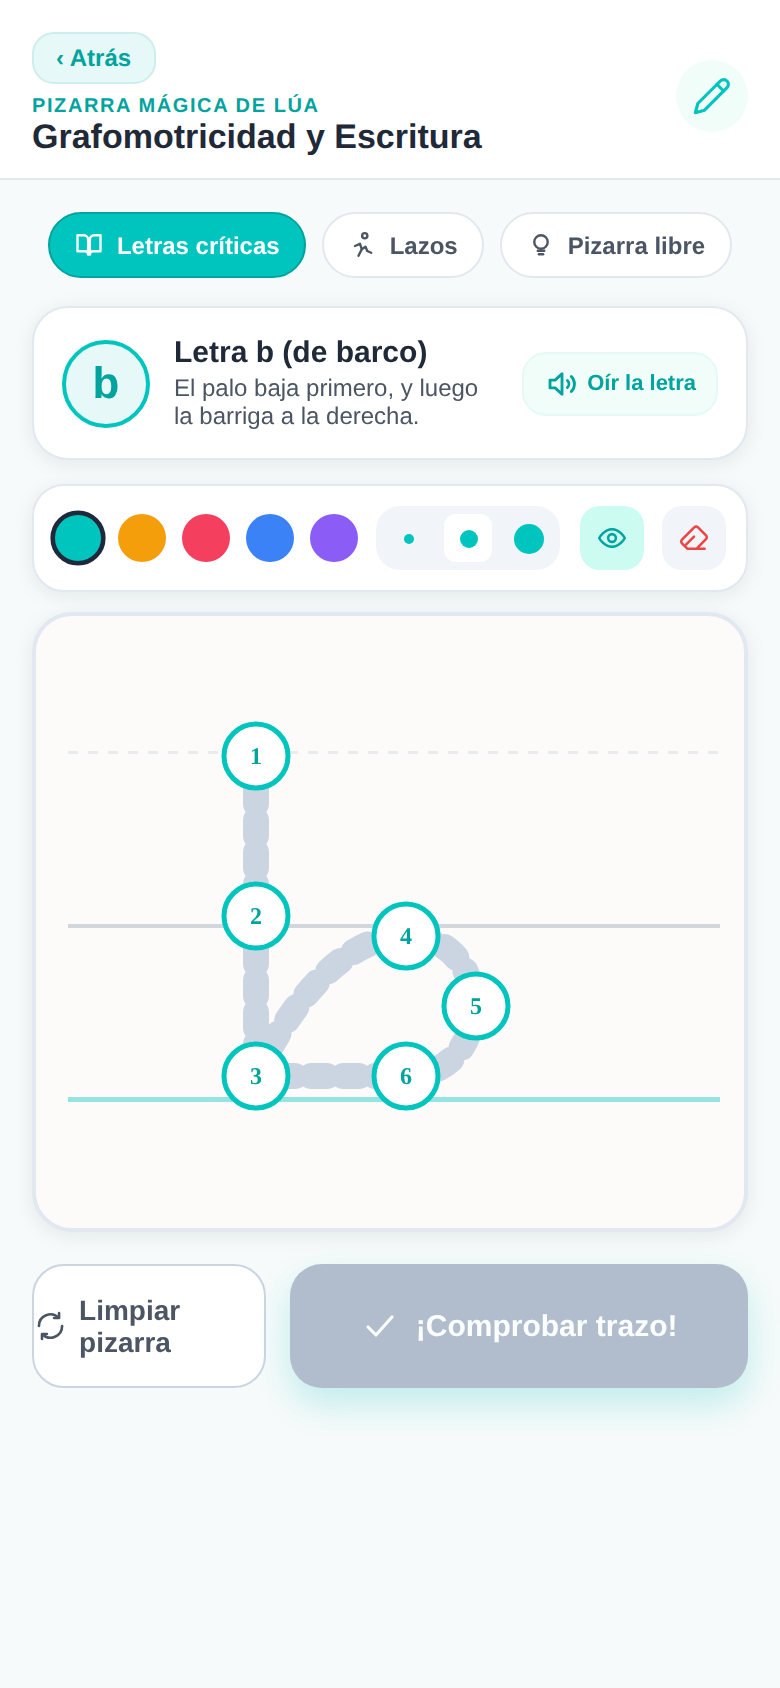
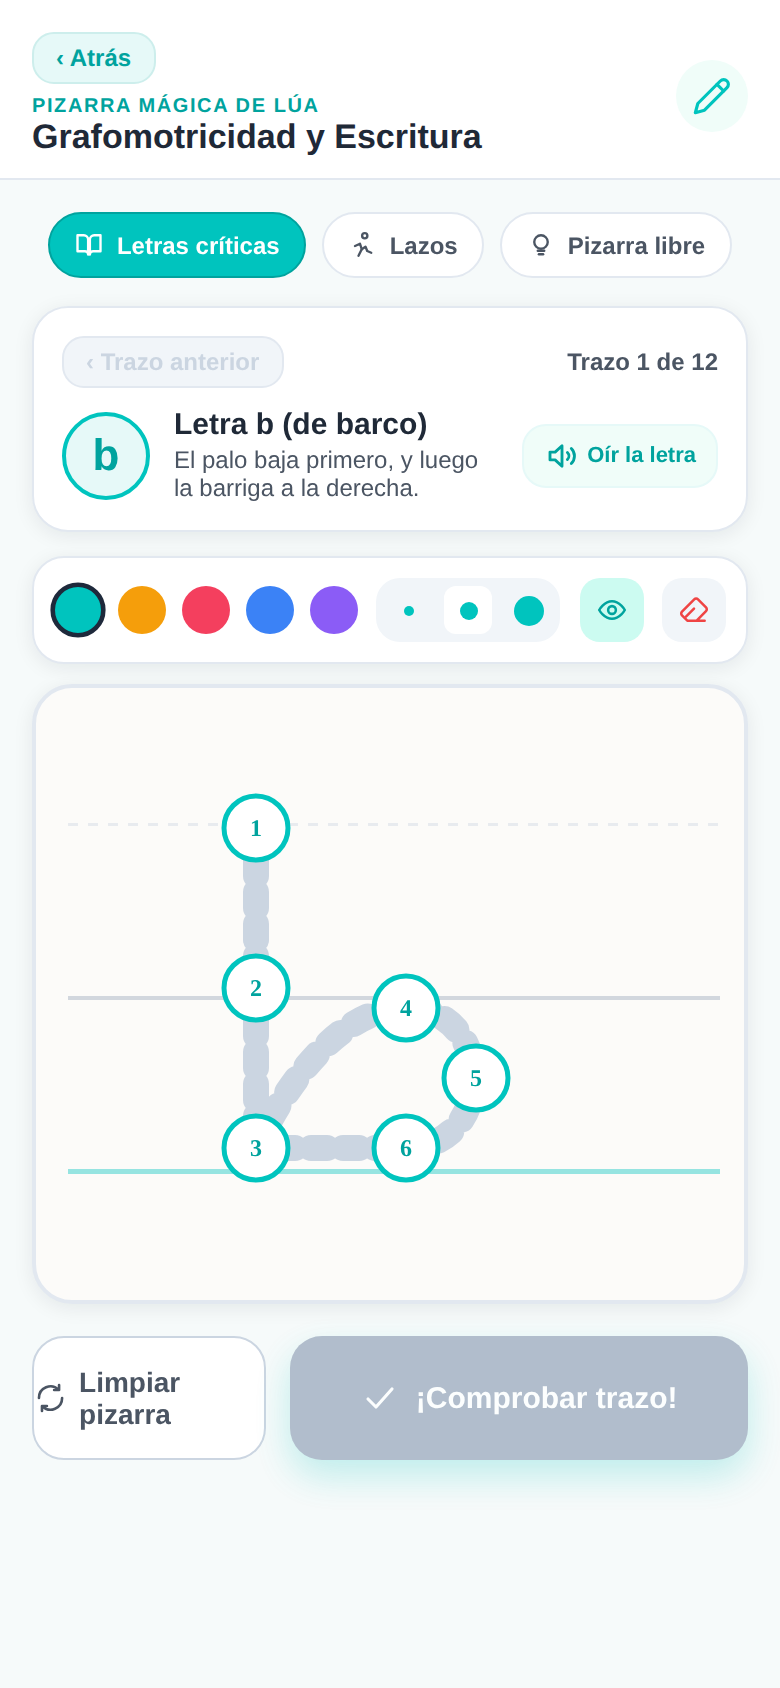
README: la Pizarra ya no enseña una captura de una pantalla que no existe, y la tabla de gates deja de mentir
Frank pidió actualizar el README. Repasado entero, no solo lo que yo había
tocado; lo que estaba desfasado:

· La captura enlazada de la Pizarra Mágica era la pantalla ANTERIOR: 6 trazos,
  sin contador y sin vuelta atrás. Regenerada con docs/capture-pizarra.js, y
  añadida una segunda con un lazo (40b-pizarra-lazo.png), que es donde está la
  otra mitad de la novedad.

· «Antes de compilar corren 25 chequeos»: son 30. Y la tabla listaba 25 filas,
  con CINCO gates que corren en CI y no estaban escritos —verify-aventuras-lua,
  check-no-background-audio, check-ar-bridge-contract y los dos nuevos—. Es
  exactamente la deriva que costó el build 621, cuando la lista decía 15 y el
  workflow corría 25. Añadidas las cinco filas y, sobre todo, el comando que
  SACA los gates del propio workflow: la cuenta que manda es la suya, no la de
  una tabla escrita a mano.

· Corpus de voz: decía 4110 locuciones con un reparto por lengua que ya no era
  el de nadie. Son 4711 (1444 es · 829 gl · 814 en · 868 ca · 756 eu). Y se
  quita el «todas con asset»: eso no es una cifra que un README pueda sostener
  —lo comprueba el gate en cada build, y esa es la única fuente fiable—.

· La suite catalana: 212 → 223 funciones de interpolación.

· Capturas: eran 45, son 54. Y se documenta docs/capture-pizarra.js, que existe
  porque el recorrido general no pasa por la pizarra y por eso se le colaron
  cosas que ningún gate ve.
[…]

diff --git a/README.md b/README.md
@@ -116,8 +116,17 @@ cualquier dispositivo y **sin conexión**.
 Todas salen de la app corriendo, no de un diseño: las genera
 [`docs/capture-screenshots.js`](docs/capture-screenshots.js) recorriendo Expo web
 con Playwright, y por eso envejecen con el código en lugar de quedarse atrás.
-Están las 45 en [`docs/screenshots/`](docs/screenshots/) y el manual las usa
+Están las 54 en [`docs/screenshots/`](docs/screenshots/) y el manual las usa
 todas.
+
+La Pizarra Mágica tiene el suyo aparte,
+[`docs/capture-pizarra.js`](docs/capture-pizarra.js), porque el recorrido general
+no pasa por ella —y por eso se le habían colado cosas que ningún gate ve: una
+insignia de letra que se desbordaba y se comía el título, y unos puntos de
+control 30 px por encima de su curva—. Captura los 18 trazos uno a uno
+**trazándolos por sus propios waypoints**, así que sale con error si alguno deja
+de poder aprobarse siguiendo su propia guía: es captura y prueba funcional a la
+vez.
 
 <table>
 <tr>
@@ -146,6 +155,8 @@ todas.
 >   react-native-web@~0.21.0 react-dom@19.1.0 @expo/metro-runtime@~6.1.1 playwright
 > BROWSER=none npx expo start --web --port 8081 --clear
 > node docs/capture-screenshots.js
+> CHROMIUM_PATH=/opt/pw-browsers/chromium-1194/chrome-linux/chrome \
+>   OUT_DIR=docs/screenshots node docs/capture-pizarra.js   # los 18 trazos
 > ```
 
 ---
@@ -168,7 +179,7 @@ tarjeta que puede no aparecer, porque depende del aparato.
 | 💬 **Lenguaje** (7 ejercicios) | Protocolo familiar: atención conjunta, imitación, comprensión, expresión, comunicación funcional, regulación e interacción social. |
 | 🧠 **TEA** (6 ejercicios) | PRT + TCC: atención conjunta triangulada (Time Delay + Sello Doble), quiebre pragmático con consentimiento, espejo asimétrico, transición interrumpida, categorización bajo ruido y múltiples señales simultáneas. Todos los estresores son **manuales** (Panel del Adulto). |
 | 📖 **Dislexia** (6 ejercicios) | Fonología y acceso léxico: intruso fonológico auditivo puro, rastreo léxico con interferencia, síntesis fonémica rítmica (latencia 500 ms + Juez), criba de pseudopalabras (máx. 5 ensayos), rastreo visual de rotaciones b/d · p/q con mapa de misclicks y denominación rápida (RAN). |
-| ✏ **Grafomotricidad y Escritura** (18 trazos) · [captura](docs/screenshots/40-pizarra-magica.png) | La **Pizarra Mágica de Lúa**: continuación motora de Dislexia. Trazado guiado sobre lienzo SVG con dedo o lápiz óptico, pauta Montessori regulable y **puntos de control numerados** que fijan el ORDEN del trazo, que es lo que evita la inversión b/d y p/q: en la `b` el palo baja primero y la barriga abre a la derecha; en la `d` el óvalo va antes. Doce letras críticas en seis contrastes cerrados —b↔d, p↔q, m↔n, n↔u, a↔e, s↔z, más la g contra la q: cada letra confundible tiene a su par en el mismo banco—, seis lazos de calentamiento (olas, bucles, picos, puentes, caracol y ocho tumbado, uno por destreza motora) y pizarra libre. La geometría la verifica `scripts/check-writing-bank.js`: que cada punto numerado caiga sobre el trazo y en el sentido en que se escribe es justamente lo que el typecheck no puede ver. El contenido de pantalla está **solo en castellano** de momento; lo que la pizarra PRONUNCIA sí está en las cinco variedades: los tres elogios (`escritura/elogio`) y el nombre de cada una de las 12 letras (`escritura/letra`), que hasta ahora caía a la voz del sistema. |
+| ✏ **Grafomotricidad y Escritura** (18 trazos) · [letra](docs/screenshots/40-pizarra-magica.png) · [lazo](docs/screenshots/40b-pizarra-lazo.png) | La **Pizarra Mágica de Lúa**: continuación motora de Dislexia. Trazado guiado sobre lienzo SVG con dedo o lápiz óptico, pauta Montessori regulable y **puntos de control numerados** que fijan el ORDEN del trazo, que es lo que evita la inversión b/d y p/q: en la `b` el palo baja primero y la barriga abre a la derecha; en la `d` el óvalo va antes. Doce letras críticas en seis contrastes cerrados —b↔d, p↔q, m↔n, n↔u, a↔e, s↔z, más la g contra la q: cada letra confundible tiene a su par en el mismo banco—, seis lazos de calentamiento (olas, bucles, picos, puentes, caracol y ocho tumbado, uno por destreza motora) y pizarra libre. La geometría la verifica `scripts/check-writing-bank.js`: que cada punto numerado caiga sobre el trazo y en el sentido en que se escribe es justamente lo que el typecheck no puede ver. El contenido de pantalla está **solo en castellano** de momento; lo que la pizarra PRONUNCIA sí está en las cinco variedades: los tres elogios (`escritura/elogio`) y el nombre de cada una de las 12 letras (`escritura/letra`), que hasta ahora caía a la voz del sistema. |
 | 🎯 **Realidad Aumentada** (6 ejercicios · solo Android) | **Gamificación Condicionada**: la cámara frontal deja de grabar y pasa a ser un sensor de conducta motora, y el refuerzo 3D se dispara **solo** por el gesto objetivo, nunca por acierto acústico ni por paso del tiempo. Cinemática orofacial con el **micrófono apagado** (AR‑1), localización del sonido instrumentada —la versión con cronómetro de RA‑5— (AR‑2), selección semántica por fijación de la mirada sin motricidad fina (AR‑3), búsqueda espacial de Lúa (AR‑4), lanzamiento y captura (AR‑5) y espejo mímico (AR‑6). Sobre **ARCore**, con MediaPipe aportando los blendshapes que ARCore no da. Ningún fotograma se graba ni sale del teléfono. La tarjeta solo aparece si el teléfono supera la **Prueba de Aptitud del Dispositivo**. |
 
 El **Test de Ling** (6 sonidos) precede a los ejercicios de audición cuando el
@@ -758,9 +769,11 @@ piezas que no existían:
 
 - **Voz neuronal offline.** El audio de las **cinco variedades con banco
   pregenerado** se sintetiza en CI (nunca en el dispositivo) y viaja empaquetado
-  en el APK. El corpus enumerado son **4110 locuciones** —881 `es` · 819 `gl` ·
-  805 `en` · 858 `ca` · 747 `eu`—, **todas con asset**, y cada id se resuelve
-  contra `src/valeriaVoiceAssets.ts` (mapa generado). Una variedad **solo
+  en el APK. El corpus enumerado son **4711 locuciones** —1444 `es` · 829 `gl` ·
+  814 `en` · 868 `ca` · 756 `eu`—, y cada id se resuelve
+  contra `src/valeriaVoiceAssets.ts` (mapa generado). Que estén **todas
+  sintetizadas** no se afirma aquí: lo comprueba el gate en cada build, y esa es
+  la única fuente fiable — una cifra escrita en un README envejece sola. Una variedad **solo
   reproduce assets de su propia voz**: si falta uno, cae con elegancia a
   `expo-speech`, nunca a la voz de otra lengua (mezclar Celtia y Sharvard en el
   mismo ejercicio se oía como un salto de locutor). `es-DO` queda fuera a
@@ -1214,9 +1227,17 @@ compila la app en cada push/fusión a `main` (y en ramas `claude/**`). Con los
 secrets de firma configurados genera el APK y el **AAB firmados**; sin secrets
 solo compila el APK. El `versionCode` se deriva del número de run.
 
-Antes de compilar corren **25 chequeos** que fallan rápido. No son tests
+Antes de compilar corren **30 chequeos** que fallan rápido. No son tests
 unitarios: cada uno protege un acuerdo clínico concreto —o, en el caso del ASR,
 un dato de salud de un menor— que el typecheck y el diff no ven.
+
+> La cuenta que manda es la del workflow, no la de esta tabla. Cuando llegaron a
+> ser 25, aquí seguían escritos 15, y el build 621 murió en uno de los diez que
+> faltaban. Para no fiarse de la lista:
+> ```bash
+> grep -oP '(?<=run: )node scripts/\S+(?: --\S+)?' .github/workflows/android.yml |
+>   while read -r cmd; do $cmd >/dev/null 2>&1 || echo "FALLA: $cmd"; done
+> ```
 
 | Chequeo | Qué impide |
 | --- | --- |
@@ -1231,11 +1252,16 @@ un dato de salud de un menor— que el typecheck y el diff no ven.
 | `check-word-coverage.js` | Que la lámina encendida y la palabra puntuada vuelvan a contarse con reglas distintas. La regla llegó a estar escrita dos veces y no eran iguales: una frase podía encender las cinco láminas y recibir un «casi». Comprueba además que el recuento **sobrevive al viaje por disco** hasta la exportación |
 | `check-ui-strings.js` | Que una pantalla pinte texto literal en vez de leerlo del catálogo (EN‑2.8). Ya pasó dos veces con ficheros enteros dentro de pantallas migradas: compilan, el typecheck pasa y la app sale mitad en inglés y mitad en castellano |
 | `check-ui-lang-fallback.js` | Que un idioma de interfaz caiga a otra lengua **en silencio**. Hermano del anterior para lo que no es literal de pantalla: los catálogos de ejercicios y de Academy se elegían con `lang === 'en' ? EN : ES`, así que al entrar el catalán el adulto leía castellano bajo una cabecera catalana — sin romper el typecheck, porque el ternario acepta cualquier `UiLang`. O hay rama, o el hueco está declarado en `src/i18n/uiLangFallback.ts` y **la pantalla lo dice** |
-| `test-challenger-final-ca-integration.js` | Que el catálogo catalán pierda la paridad 1:1 con el castellano, que el selector deje de mover la variedad de los ejercicios o que alguna de las 212 funciones de interpolación reviente al ejecutarse. Existía desde la primera tanda pero **no lo corría nadie** |
+| `test-challenger-final-ca-integration.js` | Que el catálogo catalán pierda la paridad 1:1 con el castellano, que el selector deje de mover la variedad de los ejercicios o que alguna de las 223 funciones de interpolación reviente al ejecutarse. Existía desde la primera tanda pero **no lo corría nadie** |
 | `check-adult-fields.js` | Que los dos ejes de idioma se contradigan **dentro de un ejercicio**: lo que se le dice al niño va en la variedad de los ejercicios, lo que solo lee el adulto va en el idioma de la interfaz |
 | `check-variety-branches.js` | Que una variedad se quede sin su rama en un selector escrito cuando existían menos. Es el patrón exacto que produjo «la voz inglesa lee castellano», y con seis variedades hay seis formas de repetirlo |
 | `check-brand-consistency.js` | Que reaparezca la mascota retirada. La migración a Lúa se dio por terminada **tres veces** estando a medias, y la última capa que quedó fue el texto **locutado** |
 | `check-lua-mascot-mirror.js` | Que la gata de la tableta y la del aparato se separen en humor o en guardarropa. Vigila `MOOD` y `ACCESSORY`, **no** los glifos de las insignias |
+| `verify-aventuras-lua.js` | Que el módulo de Lúa vuelva a los cuatro defectos con que entró: una pregunta que el niño responde tocando y **sin ficha** (por debajo de 4 años no se lee), la pauta clínica del ADULTO locutada al niño al fallar, locuciones fuera del corpus e imprimibles vacíos. El módulo traía su propio verificador y **no estaba enchufado a ningún workflow**, así que no corría |
+| `check-lua-voice-language.js` | Que Aventuras con Lúa vuelva a leer su castellano **con la voz de la sesión** —Celtia o HiTZ pronunciando palabras castellanas—. No lo ve ningún gate de texto, porque el texto era el correcto: lo equivocado era la voz. Por eso **ejecuta** la ruta de locución con expo-speech y el reproductor de assets sustituidos por espías, y mira qué sonó |
+| `check-writing-bank.js` | Que un trazo de la Pizarra Mágica quede imposible de aprobar. El banco es **geometría**, que es lo único que el typecheck no puede ver: muestrea el path y comprueba que cada punto numerado cae sobre el trazo **y en el sentido en que se escribe** (numerar la `b` de abajo arriba enseña a trazarla al revés, que es justo lo que la pantalla combate), que no se pisan entre sí, que el modelo cabe en el móvil más estrecho, que cada contraste apunta a una letra que existe en el banco y que el nombre de cada letra está en el corpus de voz |
+| `check-no-background-audio.js` | Que la app siga sonando con la pantalla apagada o en segundo plano |
+| `check-ar-bridge-contract.js` | Que el puente nativo de Realidad Aumentada y su lado JS dejen de hablar el mismo contrato |
 | `check-lua-mute.js` | Que el firmware de Lúa gane entrada de audio, micrófono o servos. Un juguete que escucha junto a un menor no entra en una consulta |
 | `check-sensory-assets.js` | Que el módulo sensorial vuelva a ser mudo: formato, sonoridad, costura del bucle e identidad de cada estímulo |
 | `check-legal-urls.js` | Que las URLs legales declaradas en Play Console dejen de servirse. Existe por el rechazo del 19/8/2026, con el fichero intacto y el despliegue en verde |
@@ -1399,6 +1425,31 @@ toque `site/` republica el sitio; también puede lanzarse desde *Actions*.
 ---
 
 ## 🕑 Historial de versiones
+
+<details open>
+<summary><strong>V14</strong> — la pizarra triplica y Lúa deja de hablar con el acento equivocado</summary>
+
+**Lo que se ve al abrir la app:** la Pizarra Mágica pasa de **6 trazos a 18** —el
+hub lo dice en su tarjeta—, con contador «Trazo 9 de 12» y vuelta al trazo
+anterior. **Lo que se OYE** es el otro cambio, y no se ve en ninguna captura: en
+una sesión en galego, euskera, català o inglés, Aventuras con Lúa ya no suena
+con la voz de esa lengua leyendo palabras castellanas.
+
+| Qué | Cambio |
+| --- | --- |
+| **12 letras críticas** | Seis contrastes **cerrados** —b↔d, p↔q, m↔n, n↔u, a↔e, s↔z, y la g contra la q—: cada `contrastWith` apunta a una letra que también está en el banco, así que el par confundible se puede entrenar entero. Antes la `p` decía «me confundo con la q» y la q no existía. |
+| **6 lazos** | Uno por destreza motora distinta: ondulación (olas), giro continuo (bucles), inversión angular (picos), arcada con retorno (puentes), rotación de radio decreciente (caracol) y **cruce de la línea media** del cuerpo (ocho tumbado). |
+| **Navegación de la serie** | Con series de 12 y 6 en vez de 4 y 2, «Siguiente trazo» ya no basta: contador y vuelta atrás. Repetir la letra que acaba de salir mal obligaba a dar la vuelta entera. |
+| **La voz de Aventuras con Lúa** | Dos causas independientes. El asset neuronal se buscaba con el idioma de la **sesión**, y las 553 locuciones del módulo solo están en el corpus `es`: no resolvía ninguna y todas caían al motor del sistema **teniendo su audio de Sharvard ya empaquetado**. Y ahí `speakChain` seguía fijando la voz de la variedad activa, que en Android **manda sobre `language`**. Resultado: acento de una lengua sobre el léxico de otra, sobre estímulo clínico. Ahora `speakToChildIn` resuelve el asset del idioma donde el texto está horneado y `pinVoice` no impone la voz de la sesión cuando el llamante fija `language`. gl, eu, ca y en-US pasan de voz del sistema a **Sharvard neuronal, sin sintetizar un audio nuevo**. |
+| **«Oír la letra» en el corpus** | El botón que sostiene el ejercicio anti-inversión nunca estuvo enumerado: lo locutaba el motor del sistema. Entran **48 locuciones** (`escritura/letra`, 12 letras × 5 variedades menos las que ya venían de Pares Mínimos). Corpus 4663 → **4711**. |
+| **Dos gates nuevos** | `check-writing-bank.js` muestrea el path y comprueba que cada punto numerado cae sobre el trazo **y en el sentido en que se escribe** — encontró 17 problemas a la primera, **tres ya en producción**: las olas se salían del lienzo en 320 dp y sus waypoints de cresta estaban 30 px por encima de su curva, con 32 de tolerancia. `check-lua-voice-language.js` **ejecuta** la ruta de locución con espías, porque el fallo de voz no lo ve ningún gate de texto: el texto era correcto. |
+| **Lo que enseñó la captura** | Y ningún gate podía ver: las letras redondas cabían en 70×70 px con círculos de 32 y eran ilegibles (a, e, g, q y s rehechas); en un lazo, la insignia de **letra** escribía «Caracol» y se comía el título (ya pasaba con «Olas»); y «Oír la letra» se ofrecía en los lazos y pronunciaba «olas». |
+| **Captura propia de la pizarra** | `docs/capture-pizarra.js`: el recorrido general no pasaba por esta pantalla, que es exactamente por qué se le habían colado esas tres cosas. Traza los 18 por sus waypoints, así que es captura **y** prueba funcional. |
+
+> ⚠ **No verificado en Android real**: todo lo visual está mirado en Expo web a
+> 390 px, no en dispositivo.
+
+</details>
 
 <details open>
 <summary><strong>V13</strong> — el octavo bloque suena: Integración Sensorial Auditiva</summary>
